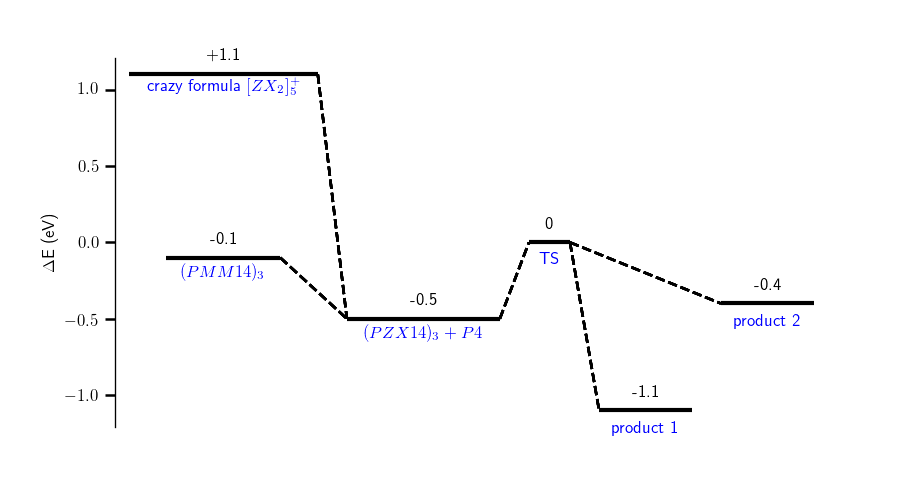
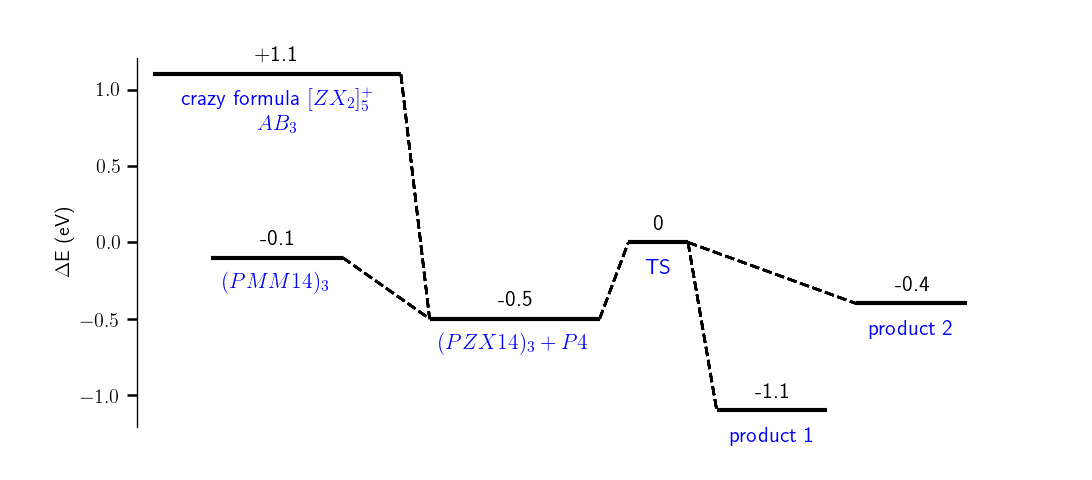
fix the multiline labels

diff --git a/configs.py b/configs.py
@@ -3,26 +3,26 @@ Configurations for the reaction_pypaths
 """
 plot_height = 4  # diagram height in inch
 plot_dpi = 120
-plot_font = "serif"
+plot_font = "sans"
 
 energy_axis_label = "$\Delta$E (eV)"
-energy_axis_label_fontsize = 10
+energy_axis_label_fontsize = 12
 energy_axis_label_fontweight = "bold"
 
-energy_axis_ticks_fontsize = 10
+energy_axis_ticks_fontsize = 12
 energy_axis_ticks_width = 1.5
 energy_axis_ticks_length = 6
 
 energy_tags_color = "black"
-energy_tags_fontsize = 10
+energy_tags_fontsize = 13
 energy_tags_fontweight = "normal"
-energy_tags_offset = 0.3
+energy_tags_offset = 0.1
 
 level_labels_color = "blue"
-level_labels_fontsize = 10
-level_labels_fontweight = "normal"
-level_labels_offset = 0.3
-level_labels_padding = 2
+level_labels_fontsize = 13
+level_labels_fontweight = "bold"
+level_labels_offset = 0.2
+level_labels_padding = 4
 
 level_lines_color = "black"
 level_lines_thickness = 2.5

diff --git a/reaction_pypaths.py b/reaction_pypaths.py
@@ -174,7 +174,7 @@ class Diagram:
                 level.energy + configs.energy_tags_offset,
                 energy_label,
                 horizontalalignment="center",
-                verticalalignment="top",
+                verticalalignment="bottom",
                 size=configs.energy_tags_fontsize,
                 color=configs.energy_tags_color,
                 fontweight=configs.energy_tags_fontweight,
@@ -185,7 +185,7 @@ class Diagram:
                 level.energy - configs.level_labels_offset,
                 level.label,
                 horizontalalignment="center",
-                verticalalignment="bottom",
+                verticalalignment="top",
                 size=configs.level_labels_fontsize,
                 color=configs.level_labels_color,
                 fontweight=configs.level_labels_fontweight,

diff --git a/example.py b/example.py
@@ -3,7 +3,7 @@ import reaction_pypaths
 energy_diagram = reaction_pypaths.Diagram()
 
 # add the levels to the diagram
-formula1 = energy_diagram.add_level(1.1, "crazy formula $[ZX_2]_5^{+}$")
+formula1 = energy_diagram.add_level(1.1, "crazy formula $[ZX_2]_5^{+}$\n$AB_3$")
 PMM14 = energy_diagram.add_level(-0.1, "$(PMM14)_3$", True)
 PZX14_mix = energy_diagram.add_level(-0.5, "$(PZX14)_3 + P4$")
 transition_state = energy_diagram.add_level(0, "TS")

diff --git a/README.md b/README.md
@@ -19,7 +19,7 @@ import reaction_pypaths
 energy_diagram = reaction_pypaths.Diagram()
 
 # add the levels to the diagram
-formula1 = energy_diagram.add_level(1.1, "crazy formula $[ZX_2]_5^{+}$")
+formula1 = energy_diagram.add_level(1.1, "crazy formula $[ZX_2]_5^{+}$\n$AB_3$")
 PMM14 = energy_diagram.add_level(-0.1, "$(PMM14)_3$", True)
 PZX14_mix = energy_diagram.add_level(-0.5, "$(PZX14)_3 + P4$")
 transition_state = energy_diagram.add_level(0, "TS")
